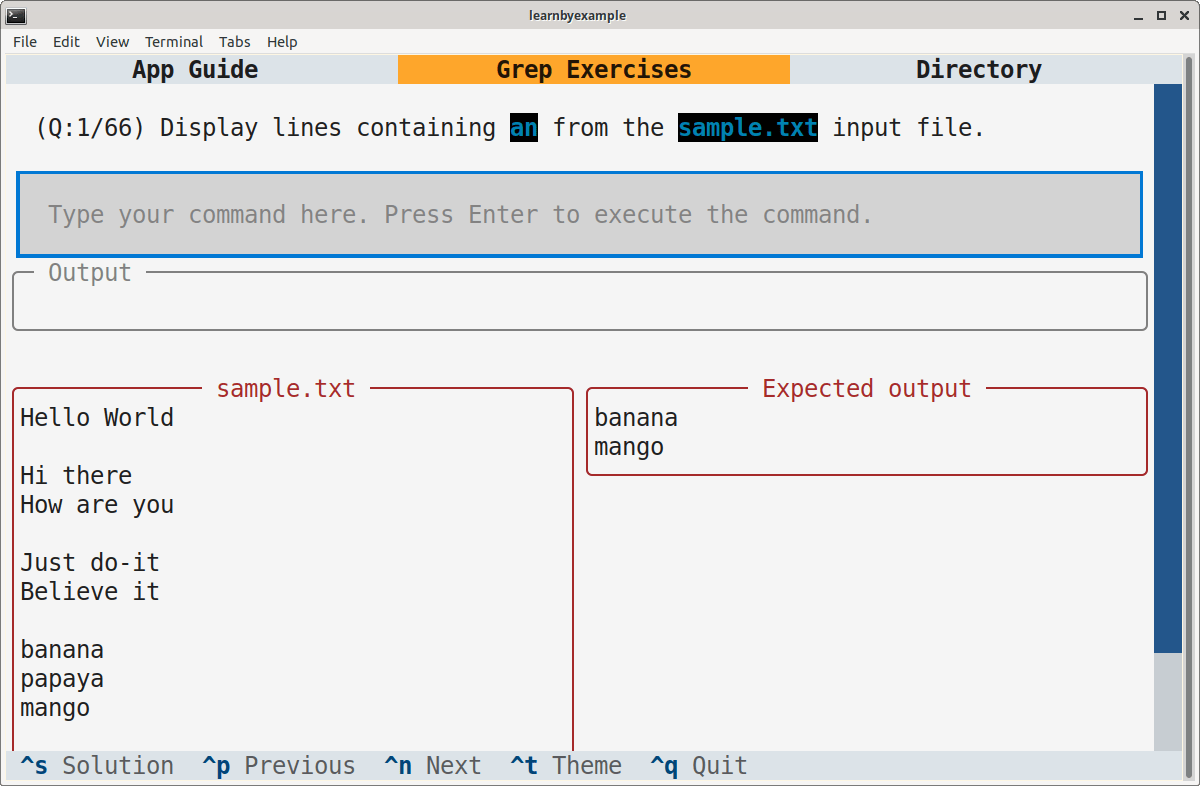
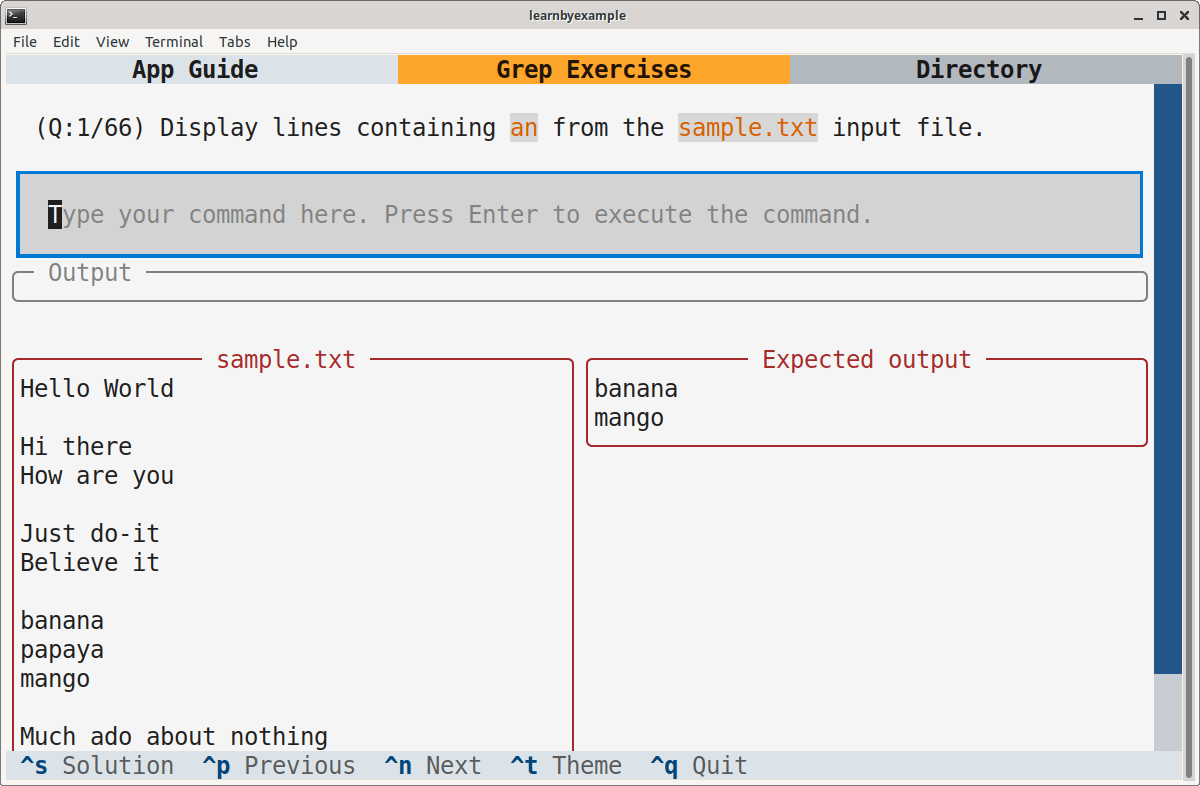
shortcuts based on current tab, toggle solution, updated colors

diff --git a/CLI-Exercises/cli_exercises.css b/CLI-Exercises/cli_exercises.css
@@ -20,7 +20,6 @@ ContentSwitcher {
 #solution {
     width: 100%;
     padding: 0 1 0 1;
-    border: round black;
 }
 
 .container {

diff --git a/GrepExercises/grep_exercises.css b/GrepExercises/grep_exercises.css
@@ -20,7 +20,6 @@ ContentSwitcher {
 #solution {
     width: 100%;
     padding: 0 1 0 1;
-    border: round black;
 }
 
 .container {

diff --git a/SedExercises/sed_exercises.css b/SedExercises/sed_exercises.css
@@ -20,7 +20,6 @@ ContentSwitcher {
 #solution {
     width: 100%;
     padding: 0 1 0 1;
-    border: round black;
 }
 
 .container {

diff --git a/GrepExercises/grep_exercises.py b/GrepExercises/grep_exercises.py
@@ -3,11 +3,12 @@ from textual.binding import Binding
 from textual.containers import Horizontal, VerticalScroll, Vertical
 from textual.widgets import Footer, Label, Input, Button
 from textual.widgets import MarkdownViewer, ContentSwitcher, DirectoryTree
-from rich.markdown import Markdown
+from rich.markup import escape as rich_escape
 
 import json
 import subprocess
 import os
+import re
 from pathlib import Path
 
 SCRIPT_DIR = Path(__file__).parent.resolve()
@@ -132,6 +133,7 @@ class GrepExercisesApp(App):
                     self.i_cmd.styles.background = 'green'
                     self.solved = True
                     self.action_show_solution()
+                    self.show_solution = True
                 else:
                     self.i_cmd.styles.background = 'lightgray'
             self.save_progress()
@@ -145,10 +147,11 @@ class GrepExercisesApp(App):
     def set_quest_ip_op(self):
         self.l_ref_solution_clear()
         self.solved = False
-        self.l_question.update(
-                Markdown(f'(Q:{self.q_idx+1}/{self.q_max_idx+1}) ' +
-                         self.questions[self.q_idx]['question']))
+        self.l_question.update(self.style_inline_code(
+                f'(Q:{self.q_idx+1}/{self.q_max_idx+1}) ' +
+                self.questions[self.q_idx]['question']))
         self.ref_solution = self.questions[self.q_idx]['ref_solution']
+        self.show_solution = False
 
         self.h_ip_op.remove()
         ip_files = self.questions[self.q_idx]['ip_file']
@@ -203,6 +206,7 @@ class GrepExercisesApp(App):
             json.dump(self.user_progress, f, indent=2)
 
     def on_button_pressed(self, event):
+        self.refresh_bindings()
         name = event.button.name
         self.cs_tabs.current = name
         for b in self.b_tabs:
@@ -227,8 +231,22 @@ class GrepExercisesApp(App):
         self.l_ref_solution.styles.border = ('none', 'green')
 
     def action_show_solution(self):
-        self.l_ref_solution.update('\n'.join(self.ref_solution))
-        self.l_ref_solution.styles.border = ('round', 'green')
+        self.show_solution ^= True
+        if self.show_solution:
+            self.l_ref_solution.update('\n'.join(self.ref_solution))
+            self.l_ref_solution.styles.border = ('round', 'green')
+        else:
+            self.l_ref_solution_clear()
+
+    def style_inline_code(self, s):
+        return re.sub(r'`([^`]+)`', r'[dark_orange3 on grey84]\1[/]',
+                      rich_escape(s))
+
+    def check_action(self, action, parameters):
+        tab = self.cs_tabs.current
+        if action in ('previous', 'next', 'show_solution') and tab != 'exercises':
+            return False
+        return True
 
     def action_previous(self):
         if self.q_idx > 0:

diff --git a/CLI-Exercises/cli_exercises.py b/CLI-Exercises/cli_exercises.py
@@ -3,11 +3,12 @@ from textual.binding import Binding
 from textual.containers import Horizontal, VerticalScroll, Vertical
 from textual.widgets import Footer, Label, Input, Button
 from textual.widgets import MarkdownViewer, ContentSwitcher, DirectoryTree
-from rich.markdown import Markdown
+from rich.markup import escape as rich_escape
 
 import json
 import subprocess
 import os
+import re
 from pathlib import Path
 
 SCRIPT_DIR = Path(__file__).parent.resolve()
@@ -118,6 +119,7 @@ class CLIExercisesApp(App):
                     self.i_cmd.styles.background = 'green'
                     self.solved = True
                     self.action_show_solution()
+                    self.show_solution = True
                 else:
                     self.i_cmd.styles.background = 'lightgray'
             self.save_progress()
@@ -131,10 +133,11 @@ class CLIExercisesApp(App):
     def set_quest_ip_op(self):
         self.l_ref_solution_clear()
         self.solved = False
-        self.l_question.update(
-                Markdown(f'(Q:{self.q_idx+1}/{self.q_max_idx+1}) ' +
-                         self.questions[self.q_idx]['question']))
+        self.l_question.update(self.style_inline_code(
+                f'(Q:{self.q_idx+1}/{self.q_max_idx+1}) ' +
+                self.questions[self.q_idx]['question']))
         self.ref_solution = self.questions[self.q_idx]['ref_solution']
+        self.show_solution = False
 
         self.h_ip_op.remove()
         ip_files = self.questions[self.q_idx]['ip_file']
@@ -189,6 +192,7 @@ class CLIExercisesApp(App):
             json.dump(self.user_progress, f, indent=2)
 
     def on_button_pressed(self, event):
+        self.refresh_bindings()
         name = event.button.name
         self.cs_tabs.current = name
         for b in self.b_tabs:
@@ -213,8 +217,22 @@ class CLIExercisesApp(App):
         self.l_ref_solution.styles.border = ('none', 'green')
 
     def action_show_solution(self):
-        self.l_ref_solution.update('\n'.join(self.ref_solution))
-        self.l_ref_solution.styles.border = ('round', 'green')
+        self.show_solution ^= True
+        if self.show_solution:
+            self.l_ref_solution.update('\n'.join(self.ref_solution))
+            self.l_ref_solution.styles.border = ('round', 'green')
+        else:
+            self.l_ref_solution_clear()
+
+    def style_inline_code(self, s):
+        return re.sub(r'`([^`]+)`', r'[dark_orange3 on grey84]\1[/]',
+                      rich_escape(s))
+
+    def check_action(self, action, parameters):
+        tab = self.cs_tabs.current
+        if action in ('previous', 'next', 'show_solution') and tab != 'exercises':
+            return False
+        return True
 
     def action_previous(self):
         if self.q_idx > 0:

diff --git a/SedExercises/sed_exercises.py b/SedExercises/sed_exercises.py
@@ -3,11 +3,12 @@ from textual.binding import Binding
 from textual.containers import Horizontal, VerticalScroll, Vertical
 from textual.widgets import Footer, Label, Input, Button
 from textual.widgets import MarkdownViewer, ContentSwitcher, DirectoryTree
-from rich.markdown import Markdown
+from rich.markup import escape as rich_escape
 
 import json
 import subprocess
 import os
+import re
 from pathlib import Path
 
 SCRIPT_DIR = Path(__file__).parent.resolve()
@@ -118,6 +119,7 @@ class SedExercisesApp(App):
                     self.i_cmd.styles.background = 'green'
                     self.solved = True
                     self.action_show_solution()
+                    self.show_solution = True
                 else:
                     self.i_cmd.styles.background = 'lightgray'
             self.save_progress()
@@ -131,10 +133,11 @@ class SedExercisesApp(App):
     def set_quest_ip_op(self):
         self.l_ref_solution_clear()
         self.solved = False
-        self.l_question.update(
-                Markdown(f'(Q:{self.q_idx+1}/{self.q_max_idx+1}) ' +
-                         self.questions[self.q_idx]['question']))
+        self.l_question.update(self.style_inline_code(
+                f'(Q:{self.q_idx+1}/{self.q_max_idx+1}) ' +
+                self.questions[self.q_idx]['question']))
         self.ref_solution = self.questions[self.q_idx]['ref_solution']
+        self.show_solution = False
 
         self.h_ip_op.remove()
         ip_files = self.questions[self.q_idx]['ip_file']
@@ -189,6 +192,7 @@ class SedExercisesApp(App):
             json.dump(self.user_progress, f, indent=2)
 
     def on_button_pressed(self, event):
+        self.refresh_bindings()
         name = event.button.name
         self.cs_tabs.current = name
         for b in self.b_tabs:
@@ -213,8 +217,22 @@ class SedExercisesApp(App):
         self.l_ref_solution.styles.border = ('none', 'green')
 
     def action_show_solution(self):
-        self.l_ref_solution.update('\n'.join(self.ref_solution))
-        self.l_ref_solution.styles.border = ('round', 'green')
+        self.show_solution ^= True
+        if self.show_solution:
+            self.l_ref_solution.update('\n'.join(self.ref_solution))
+            self.l_ref_solution.styles.border = ('round', 'green')
+        else:
+            self.l_ref_solution_clear()
+
+    def style_inline_code(self, s):
+        return re.sub(r'`([^`]+)`', r'[dark_orange3 on grey84]\1[/]',
+                      rich_escape(s))
+
+    def check_action(self, action, parameters):
+        tab = self.cs_tabs.current
+        if action in ('previous', 'next', 'show_solution') and tab != 'exercises':
+            return False
+        return True
 
     def action_previous(self):
         if self.q_idx > 0:

diff --git a/GrepExercises/README.md b/GrepExercises/README.md
@@ -34,7 +34,7 @@ $ pipx install grepexercises
 $ grepexercises
 ```
 
-As yet another alternative, you can install `textual` (see [Textual documentation](https://textual.textualize.io/getting_started/) for more details), clone this repository and run the `grep_exercises.py` file.
+As yet another alternative, you can install `textual==0.85.2` (see [Textual documentation](https://textual.textualize.io/getting_started/) for more details), clone this repository and run the `grep_exercises.py` file.
 
 Adjust the terminal dimensions for the widgets to appear properly, for example 84x25 (characters x lines). Here's a sample screenshot:
 

diff --git a/CLI-Exercises/README.md b/CLI-Exercises/README.md
@@ -34,7 +34,7 @@ $ pipx install cliexercises
 $ cliexercises
 ```
 
-As yet another alternative, you can install `textual` (see [Textual documentation](https://textual.textualize.io/getting_started/) for more details), clone this repository and run the `cli_exercises.py` file.
+As yet another alternative, you can install `textual==0.85.2` (see [Textual documentation](https://textual.textualize.io/getting_started/) for more details), clone this repository and run the `cli_exercises.py` file.
 
 Adjust the terminal dimensions for the widgets to appear properly, for example 84x25 (characters x lines). Here's a sample screenshot:
 

diff --git a/SedExercises/README.md b/SedExercises/README.md
@@ -34,7 +34,7 @@ $ pipx install sedexercises
 $ sedexercises
 ```
 
-As yet another alternative, you can install `textual` (see [Textual documentation](https://textual.textualize.io/getting_started/) for more details), clone this repository and run the `sed_exercises.py` file.
+As yet another alternative, you can install `textual==0.85.2` (see [Textual documentation](https://textual.textualize.io/getting_started/) for more details), clone this repository and run the `sed_exercises.py` file.
 
 Adjust the terminal dimensions for the widgets to appear properly, for example 84x25 (characters x lines). Here's a sample screenshot:
 

diff --git a/CLI-Exercises/app_guide.md b/CLI-Exercises/app_guide.md
@@ -31,7 +31,7 @@ You can either click the buttons using mouse or press the key combinations liste
 * **F3** view directory
 * **Ctrl+n** go to the next question
 * **Ctrl+p** go to the previous question
-* **Ctrl+s** show reference solution box
+* **Ctrl+s** toggle reference solution box
 * **Ctrl+t** toggle the theme between **light** and **dark** modes
 * **Ctrl+c** or **Ctrl+q** quit the application
 

diff --git a/GrepExercises/app_guide.md b/GrepExercises/app_guide.md
@@ -44,7 +44,7 @@ You can either click the buttons using mouse or press the key combinations liste
 * **F3** view directory
 * **Ctrl+n** go to the next question
 * **Ctrl+p** go to the previous question
-* **Ctrl+s** show reference solution box
+* **Ctrl+s** toggle reference solution box
 * **Ctrl+t** toggle the theme between **light** and **dark** modes
 * **Ctrl+c** or **Ctrl+q** quit the application
 

diff --git a/SedExercises/app_guide.md b/SedExercises/app_guide.md
@@ -31,7 +31,7 @@ You can either click the buttons using mouse or press the key combinations liste
 * **F3** view directory
 * **Ctrl+n** go to the next question
 * **Ctrl+p** go to the previous question
-* **Ctrl+s** show reference solution box
+* **Ctrl+s** toggle reference solution box
 * **Ctrl+t** toggle the theme between **light** and **dark** modes
 * **Ctrl+c** or **Ctrl+q** quit the application
 
